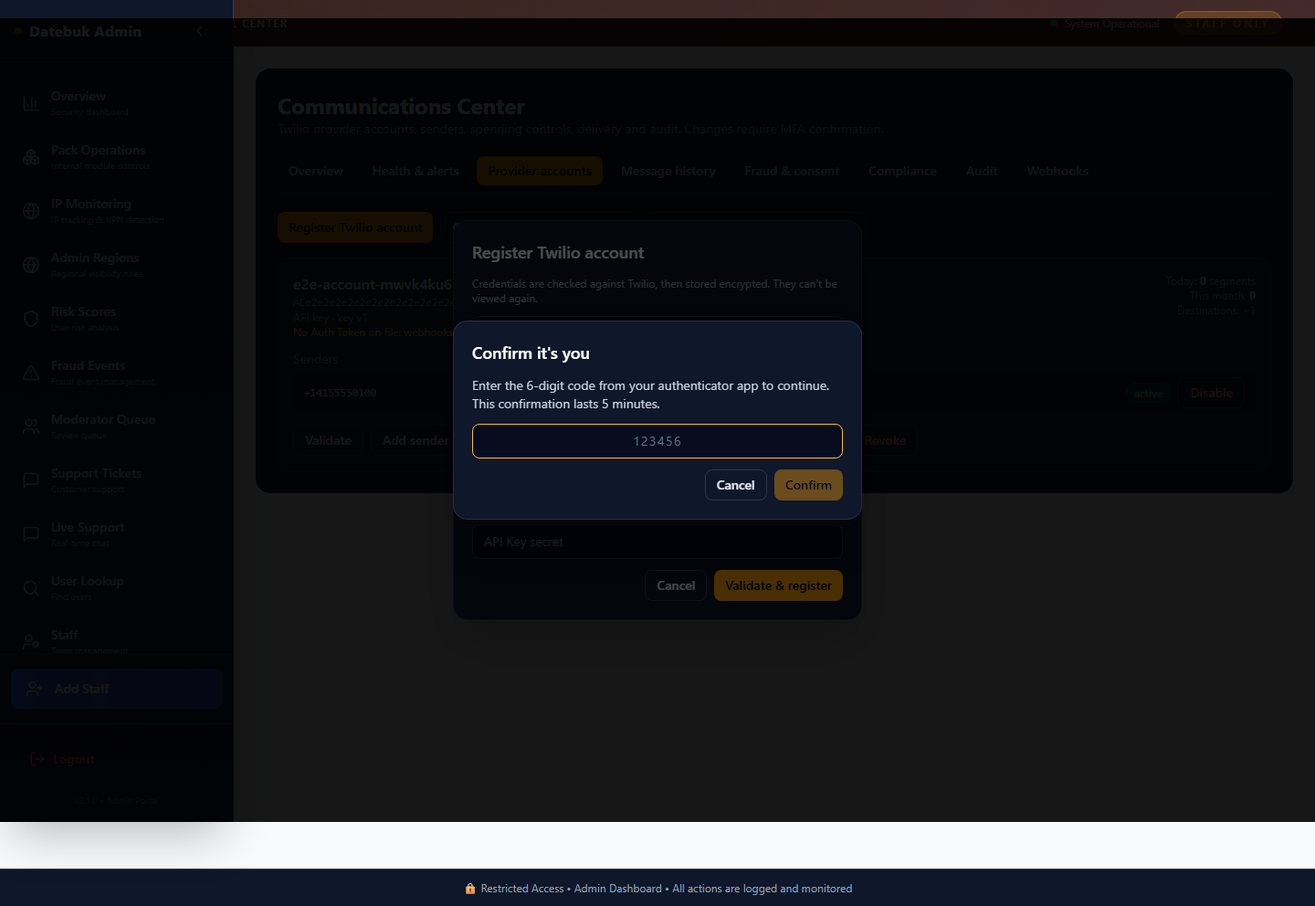
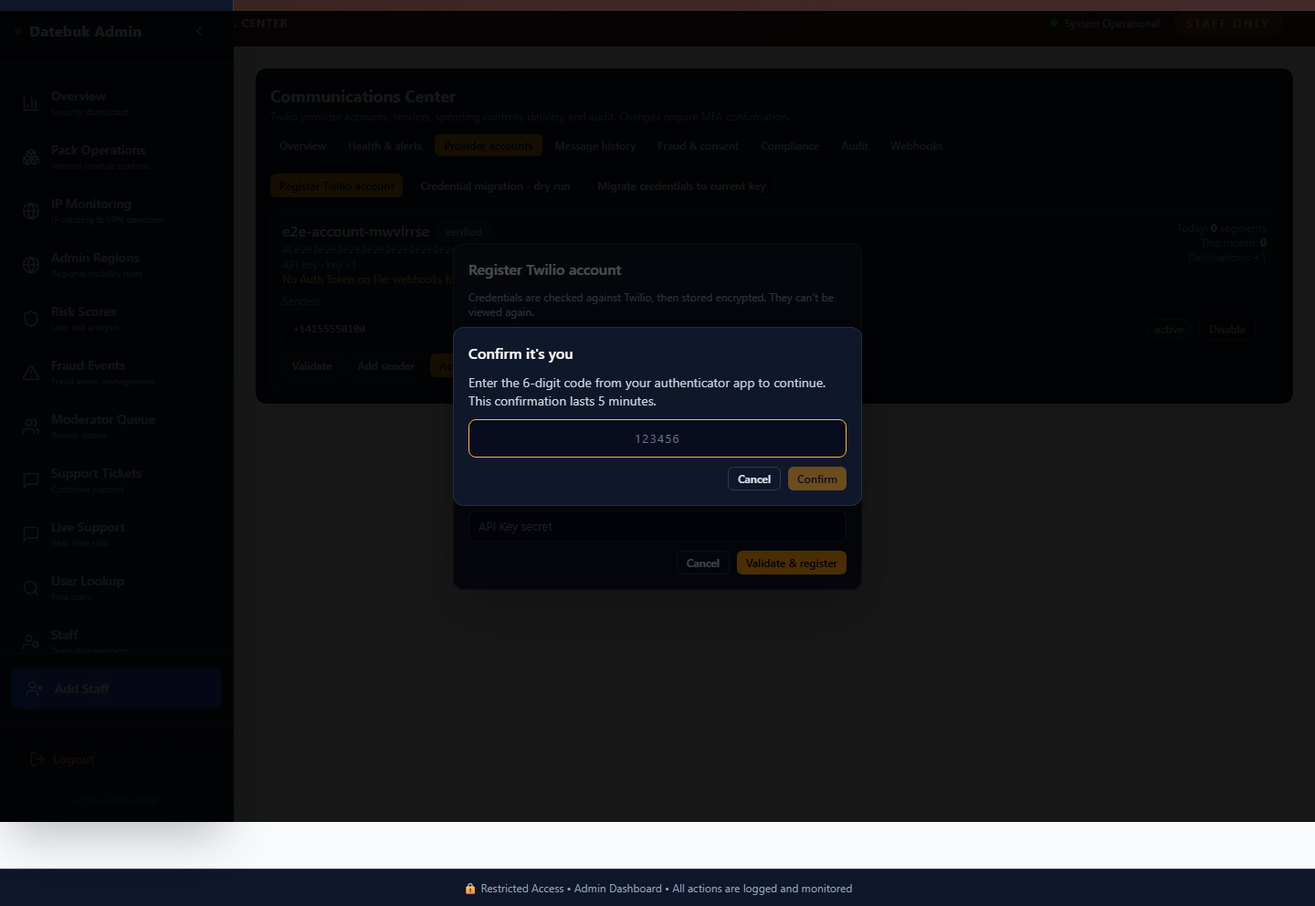
Compact Communications dashboards and usage panel; skip unreadable credentials in reconciliation
Denser spacing/typography on the admin Communications Center, staff operations and the subscription usage panel (the Health tab now fits one screen). Browser suite still 31/31. Reconciliation now skips an account whose credentials cannot be decrypted instead of failing the whole run.

diff --git a/apps/web/src/components/communications/CommunicationsConsole.tsx b/apps/web/src/components/communications/CommunicationsConsole.tsx
@@ -89,9 +89,9 @@ const Badge = ({ value }: { value: string }) => (
   <span className={`inline-block rounded-full border px-2 py-0.5 text-xs font-medium ${STATUS_STYLE[value] ?? STATUS_STYLE.pending}`}>{value}</span>
 );
 
-const card = "rounded-xl border border-white/10 bg-white/5 p-4";
-const input = "w-full rounded-lg border border-white/15 bg-slate-950/60 px-3 py-2 text-sm text-white placeholder:text-slate-500 focus:border-amber-400 focus:outline-none";
-const btn = "rounded-lg px-3 py-1.5 text-sm font-medium transition disabled:opacity-40";
+const card = "rounded-lg border border-white/10 bg-white/5 p-3";
+const input = "w-full rounded-lg border border-white/15 bg-slate-950/60 px-2.5 py-1.5 text-[13px] text-white placeholder:text-slate-500 focus:border-amber-400 focus:outline-none";
+const btn = "rounded-md px-2.5 py-1 text-xs font-medium transition disabled:opacity-40";
 const btnPrimary = `${btn} bg-amber-500 text-slate-950 hover:bg-amber-400`;
 const btnGhost = `${btn} border border-white/15 text-slate-200 hover:bg-white/10`;
 const btnDanger = `${btn} border border-red-500/50 text-red-300 hover:bg-red-500/10`;
@@ -296,17 +296,17 @@ export function CommunicationsConsole({ mode }: { mode: Mode }) {
 
   return (
     // Own dark surface: the console is styled for dark and is mounted inside layouts with light content areas.
-    <div className="space-y-5 rounded-2xl bg-slate-900 p-4 text-slate-100 md:p-6">
+    <div className="space-y-3 rounded-xl bg-slate-900 p-3 text-slate-100 md:p-4">
       <div>
-        <h1 className="text-2xl font-bold">{admin ? "Communications Center" : "Communications Operations"}</h1>
-        <p className="text-sm text-slate-400">
+        <h1 className="text-lg font-bold">{admin ? "Communications Center" : "Communications Operations"}</h1>
+        <p className="text-xs text-slate-400">
           {admin
             ? "Twilio provider accounts, senders, spending controls, delivery and audit. Changes require MFA confirmation."
             : "Read-only view of SMS delivery, history and audit. Provider administration is superadmin-only."}
         </p>
       </div>
 
-      <div className="flex flex-wrap gap-2 border-b border-white/10 pb-2">
+      <div className="flex flex-wrap gap-1 border-b border-white/10 pb-1.5">
         {tabs.map((t) => (
           <button key={t.id} onClick={() => setTab(t.id)} className={`${btn} ${tab === t.id ? "bg-amber-500 text-slate-950" : "text-slate-300 hover:bg-white/10"}`}>
             {t.label}
@@ -319,7 +319,7 @@ export function CommunicationsConsole({ mode }: { mode: Mode }) {
 
       {/* ---------- Overview ---------- */}
       {tab === "overview" && (
-        <div className="space-y-4">
+        <div className="space-y-3">
           <div className="flex items-center gap-2 text-sm">
             <span className="text-slate-400">Period</span>
             {[1, 7, 30].map((d) => (
@@ -332,15 +332,15 @@ export function CommunicationsConsole({ mode }: { mode: Mode }) {
             <p className="text-slate-400">Loading…</p>
           ) : (
             <>
-              <div className="grid grid-cols-2 gap-3 md:grid-cols-4">
+              <div className="grid grid-cols-2 gap-2 md:grid-cols-4 lg:grid-cols-8">
                 <Stat label="Messages" value={analytics.total} />
                 <Stat label="Segments billed" value={analytics.segments} />
                 <Stat label="Delivery rate" value={analytics.deliveryRate == null ? "-" : `${analytics.deliveryRate}%`} />
                 <Stat label="Needs reconciliation" value={analytics.needsReconciliation} warn={analytics.needsReconciliation > 0} hint="Outcome unknown. Never auto-retried; check with Twilio before resending." />
               </div>
-              <div className="grid gap-3 md:grid-cols-2">
+              <div className="grid gap-2 md:grid-cols-2">
                 <div className={card}>
-                  <h3 className="mb-2 font-semibold">By delivery state</h3>
+                  <h3 className="mb-1.5 text-sm font-semibold">By delivery state</h3>
                   {Object.keys(analytics.byState).length === 0 ? <p className="text-sm text-slate-400">No messages in this period.</p> : (
                     <ul className="space-y-1 text-sm">
                       {Object.entries(analytics.byState).map(([s, n]) => (
@@ -350,9 +350,9 @@ export function CommunicationsConsole({ mode }: { mode: Mode }) {
                   )}
                 </div>
                 <div className={card}>
-                  <h3 className="mb-2 font-semibold">Per day</h3>
+                  <h3 className="mb-1.5 text-sm font-semibold">Per day</h3>
                   {analytics.perDay.length === 0 ? <p className="text-sm text-slate-400">No data.</p> : (
-                    <table className="w-full text-sm"><thead className="text-left text-slate-400"><tr><th>Day</th><th>Messages</th><th>Segments</th></tr></thead>
+                    <table className="w-full text-xs"><thead className="text-left text-slate-400"><tr><th>Day</th><th>Messages</th><th>Segments</th></tr></thead>
                       <tbody>{analytics.perDay.map((d) => <tr key={d.day}><td>{d.day}</td><td>{d.messages}</td><td>{d.segments}</td></tr>)}</tbody></table>
                   )}
                 </div>
@@ -364,7 +364,7 @@ export function CommunicationsConsole({ mode }: { mode: Mode }) {
 
       {/* ---------- Accounts ---------- */}
       {tab === "accounts" && (
-        <div className="space-y-4">
+        <div className="space-y-3">
           {admin && (
             <div className="flex flex-wrap gap-2">
               <button className={btnPrimary} onClick={() => setShowRegister(true)}>Register Twilio account</button>
@@ -401,7 +401,7 @@ export function CommunicationsConsole({ mode }: { mode: Mode }) {
                 </div>
               </div>
 
-              <div className="mt-3 space-y-1 text-sm">
+              <div className="mt-2 space-y-1 text-xs">
                 <p className="text-slate-400">Senders</p>
                 {a.senders.length === 0 ? <p className="text-slate-500">None. Add a sender before activating.</p> : a.senders.map((s) => (
                   <div key={s.id} className="flex items-center justify-between rounded-lg bg-black/20 px-3 py-1.5">
@@ -414,7 +414,7 @@ export function CommunicationsConsole({ mode }: { mode: Mode }) {
               </div>
 
               {admin && a.status !== "revoked" && (
-                <div className="mt-3 flex flex-wrap gap-2">
+                <div className="mt-2 flex flex-wrap gap-1.5">
                   <button className={btnGhost} onClick={() => act("Validated", () => rawCall("POST", `/admin/sms/accounts/${a.id}/validate`), loadAccounts)}>Validate</button>
                   <button className={btnGhost} onClick={() => setSenderFor(a)}>Add sender</button>
                   {a.status !== "active" && <button className={btnPrimary} onClick={() => act("Activated", () => manage("POST", `/admin/sms/accounts/${a.id}/activate`), loadAccounts)}>Activate</button>}
@@ -440,12 +440,12 @@ export function CommunicationsConsole({ mode }: { mode: Mode }) {
             <button className={btnGhost} onClick={() => loadMessages(false)}>Refresh</button>
           </div>
           <div className={card + " overflow-x-auto p-0"}>
-            <table className="w-full text-sm">
-              <thead className="text-left text-slate-400"><tr><th className="p-3">Time</th><th>Purpose</th><th>To</th><th>State</th><th>Segments</th>{admin && <th>Resolve</th>}</tr></thead>
+            <table className="w-full text-xs">
+              <thead className="text-left text-slate-400"><tr><th className="p-2">Time</th><th>Purpose</th><th>To</th><th>State</th><th>Segments</th>{admin && <th>Resolve</th>}</tr></thead>
               <tbody>
                 {messages.length === 0 ? <tr><td colSpan={admin ? 6 : 5} className="p-4 text-slate-400">No messages.</td></tr> : messages.map((m) => (
                   <tr key={m.id} className="border-t border-white/5">
-                    <td className="p-3 whitespace-nowrap">{new Date(m.createdAt).toLocaleString()}</td><td>{m.purpose}</td><td className="font-mono">•••{m.recipientLast4}</td><td><Badge value={m.state} /></td><td>{m.segments}</td>
+                    <td className="p-2 whitespace-nowrap">{new Date(m.createdAt).toLocaleString()}</td><td>{m.purpose}</td><td className="font-mono">•••{m.recipientLast4}</td><td><Badge value={m.state} /></td><td>{m.segments}</td>
                     {admin && (
                       <td className="whitespace-nowrap pr-3">
                         {m.state === "uncertain" ? (
@@ -469,12 +469,12 @@ export function CommunicationsConsole({ mode }: { mode: Mode }) {
       {/* ---------- Audit ---------- */}
       {tab === "audit" && (
         <div className={card + " overflow-x-auto p-0"}>
-          <table className="w-full text-sm">
-            <thead className="text-left text-slate-400"><tr><th className="p-3">Time</th><th>Action</th><th>Actor</th><th>Details</th></tr></thead>
+          <table className="w-full text-xs">
+            <thead className="text-left text-slate-400"><tr><th className="p-2">Time</th><th>Action</th><th>Actor</th><th>Details</th></tr></thead>
             <tbody>
               {audit.length === 0 ? <tr><td colSpan={4} className="p-4 text-slate-400">No audit records.</td></tr> : audit.map((a) => (
                 <tr key={a.id} className="border-t border-white/5 align-top">
-                  <td className="p-3 whitespace-nowrap">{new Date(a.createdAt).toLocaleString()}</td>
+                  <td className="p-2 whitespace-nowrap">{new Date(a.createdAt).toLocaleString()}</td>
                   <td className="font-mono text-xs">{a.action}</td>
                   <td className="font-mono text-xs">{a.actorUserId ? a.actorUserId.slice(0, 8) : "system"}</td>
                   <td className="max-w-[420px] truncate font-mono text-xs text-slate-400">{a.metadata ? JSON.stringify(a.metadata) : ""}</td>
@@ -508,7 +508,7 @@ export function CommunicationsConsole({ mode }: { mode: Mode }) {
 
       {/* ---------- Health & alerts ---------- */}
       {tab === "health" && (
-        <div className="space-y-4">
+        <div className="space-y-3">
           {!health ? <p className="text-slate-400">Loading…</p> : (
             <>
               {health.control.stopped && (
@@ -516,7 +516,7 @@ export function CommunicationsConsole({ mode }: { mode: Mode }) {
                   <b>Emergency stop is ON</b>{health.control.reason ? ` - ${health.control.reason}` : ""}. Nothing new is being sent; queued messages are waiting.
                 </div>
               )}
-              <div className="grid grid-cols-2 gap-3 md:grid-cols-4">
+              <div className="grid grid-cols-2 gap-2 md:grid-cols-4 lg:grid-cols-8">
                 <Stat label="Queued (due now)" value={`${health.queue.queued} (${health.queue.dueNow})`} warn={health.queue.dueNow > 0 && health.queue.oldestDueAgeSeconds > 300} hint="Oldest due message age shown below" />
                 <Stat label="Oldest due" value={`${health.queue.oldestDueAgeSeconds}s`} />
                 <Stat label="Uncertain" value={health.reconciliation.uncertain} warn={health.reconciliation.uncertain > 0} />
@@ -527,7 +527,7 @@ export function CommunicationsConsole({ mode }: { mode: Mode }) {
                 <Stat label="Open fraud events" value={health.security.openRiskEvents} warn={health.security.openRiskEvents > 0} />
               </div>
               <div className={card}>
-                <h3 className="mb-2 font-semibold">Spending today</h3>
+                <h3 className="mb-1.5 text-sm font-semibold">Spending today</h3>
                 {health.budget.length === 0 ? <p className="text-sm text-slate-400">No provider accounts.</p> : health.budget.map((b) => (
                   <div key={b.accountId} className="mb-2 text-sm">
                     <div className="flex justify-between"><span>{b.name}</span><span>{b.segmentsToday}{b.dailyLimit ? ` / ${b.dailyLimit}` : " (no cap)"} segments</span></div>
@@ -546,18 +546,18 @@ export function CommunicationsConsole({ mode }: { mode: Mode }) {
                 </div>
               )}
               <div className={card + " overflow-x-auto p-0"}>
-                <h3 className="p-3 font-semibold">Alerts</h3>
-                <table className="w-full text-sm"><thead className="text-left text-slate-400"><tr><th className="p-3">Time</th><th>Rule</th><th>Severity</th><th>Summary</th><th>Status</th></tr></thead>
+                <h3 className="px-3 pt-2 text-sm font-semibold">Alerts</h3>
+                <table className="w-full text-xs"><thead className="text-left text-slate-400"><tr><th className="p-2">Time</th><th>Rule</th><th>Severity</th><th>Summary</th><th>Status</th></tr></thead>
                   <tbody>{alertRows.length === 0 ? <tr><td colSpan={5} className="p-4 text-slate-400">No communications alerts.</td></tr> : alertRows.map((a) => (
-                    <tr key={a.id} className="border-t border-white/5"><td className="p-3 whitespace-nowrap">{new Date(a.createdAt).toLocaleString()}</td><td className="font-mono text-xs">{a.ruleId}</td><td><Badge value={a.severity === "critical" || a.severity === "high" ? "failed" : a.severity === "medium" ? "uncertain" : "queued"} /> {a.severity}</td><td>{a.summary}</td><td><Badge value={a.status === "open" ? "uncertain" : "delivered"} /> {a.status}</td></tr>
+                    <tr key={a.id} className="border-t border-white/5"><td className="p-2 whitespace-nowrap">{new Date(a.createdAt).toLocaleString()}</td><td className="font-mono text-xs">{a.ruleId}</td><td><Badge value={a.severity === "critical" || a.severity === "high" ? "failed" : a.severity === "medium" ? "uncertain" : "queued"} /> {a.severity}</td><td>{a.summary}</td><td><Badge value={a.status === "open" ? "uncertain" : "delivered"} /> {a.status}</td></tr>
                   ))}</tbody></table>
                 <p className="p-3 text-xs text-slate-500">Acknowledge and resolve alerts in the Security Alerts console; the same incident record is used.</p>
               </div>
               <div className={card + " overflow-x-auto p-0"}>
-                <h3 className="p-3 font-semibold">Messages needing review</h3>
-                <table className="w-full text-sm"><thead className="text-left text-slate-400"><tr><th className="p-3">Time</th><th>State</th><th>Detail</th>{admin && <th>Resolve</th>}</tr></thead>
+                <h3 className="px-3 pt-2 text-sm font-semibold">Messages needing review</h3>
+                <table className="w-full text-xs"><thead className="text-left text-slate-400"><tr><th className="p-2">Time</th><th>State</th><th>Detail</th>{admin && <th>Resolve</th>}</tr></thead>
                   <tbody>{reviewMsgs.length === 0 ? <tr><td colSpan={admin ? 4 : 3} className="p-4 text-slate-400">Nothing to review.</td></tr> : reviewMsgs.map((m) => (
-                    <tr key={m.id} className="border-t border-white/5"><td className="p-3 whitespace-nowrap">{new Date(m.createdAt).toLocaleString()}</td><td><Badge value={m.state} /></td><td className="text-xs text-slate-400">{(m as any).lastError ?? ""}</td>
+                    <tr key={m.id} className="border-t border-white/5"><td className="p-2 whitespace-nowrap">{new Date(m.createdAt).toLocaleString()}</td><td><Badge value={m.state} /></td><td className="text-xs text-slate-400">{(m as any).lastError ?? ""}</td>
                       {admin && <td className="whitespace-nowrap pr-3">{m.state === "uncertain" ? <span className="flex gap-1"><button className={btnGhost} onClick={() => act("Marked sent", () => manage("POST", `/admin/sms/messages/${m.id}/reconcile`, { outcome: "sent" }), loadHealth)}>Was sent</button><button className={btnGhost} onClick={() => act("Marked not sent", () => manage("POST", `/admin/sms/messages/${m.id}/reconcile`, { outcome: "not_sent" }), loadHealth)}>Not sent</button></span> : null}</td>}
                     </tr>
                   ))}</tbody></table>
@@ -569,13 +569,13 @@ export function CommunicationsConsole({ mode }: { mode: Mode }) {
 
       {/* ---------- Fraud & consent ---------- */}
       {tab === "fraud" && (
-        <div className="space-y-4">
+        <div className="space-y-3">
           <div className={card + " overflow-x-auto p-0"}>
-            <h3 className="p-3 font-semibold">Fraud events</h3>
+            <h3 className="px-3 pt-2 text-sm font-semibold">Fraud events</h3>
             <p className="px-3 pb-2 text-xs text-slate-500">Throttles and temporary blocks only - no account is ever suspended automatically. IPs and numbers are shown as short hash prefixes.</p>
-            <table className="w-full text-sm"><thead className="text-left text-slate-400"><tr><th className="p-3">Time</th><th>Kind</th><th>Score</th><th>Action</th><th>Status</th><th>Review</th></tr></thead>
+            <table className="w-full text-xs"><thead className="text-left text-slate-400"><tr><th className="p-2">Time</th><th>Kind</th><th>Score</th><th>Action</th><th>Status</th><th>Review</th></tr></thead>
               <tbody>{riskRows.length === 0 ? <tr><td colSpan={6} className="p-4 text-slate-400">No fraud events.</td></tr> : riskRows.map((r) => (
-                <tr key={r.id} className="border-t border-white/5"><td className="p-3 whitespace-nowrap">{new Date(r.createdAt).toLocaleString()}</td><td className="font-mono text-xs">{r.kind}</td><td>{r.score}</td><td><Badge value={r.action === "blocked" ? "failed" : r.action === "throttled" ? "uncertain" : "queued"} /> {r.action}</td><td>{r.status}</td>
+                <tr key={r.id} className="border-t border-white/5"><td className="p-2 whitespace-nowrap">{new Date(r.createdAt).toLocaleString()}</td><td className="font-mono text-xs">{r.kind}</td><td>{r.score}</td><td><Badge value={r.action === "blocked" ? "failed" : r.action === "throttled" ? "uncertain" : "queued"} /> {r.action}</td><td>{r.status}</td>
                   <td className="whitespace-nowrap pr-3">{r.status === "open" ? <span className="flex gap-1"><button className={btnGhost} onClick={() => act("Event confirmed", () => rawCall("POST", `/admin/sms/risk-events/${r.id}/review`, { decision: "confirmed" }), loadFraud)}>Confirm</button><button className={btnGhost} onClick={() => act("Event dismissed", () => rawCall("POST", `/admin/sms/risk-events/${r.id}/review`, { decision: "dismissed" }), loadFraud)}>Dismiss</button></span> : null}</td></tr>
               ))}</tbody></table>
           </div>
@@ -600,7 +600,7 @@ export function CommunicationsConsole({ mode }: { mode: Mode }) {
 
       {/* ---------- Compliance ---------- */}
       {tab === "compliance" && (
-        <div className="space-y-4">
+        <div className="space-y-3">
           <div className={card + " text-sm text-slate-300"}>
             <p>US messaging needs approved carrier registration: <b>A2P 10DLC</b> (brand + campaign) for local numbers and Messaging Services, or <b>toll-free verification</b> for toll-free numbers. Record what Twilio/the carriers report; approval requires an evidence reference. A sender without every required approval cannot send (enforced in production).</p>
           </div>
@@ -615,9 +615,9 @@ export function CommunicationsConsole({ mode }: { mode: Mode }) {
             </div>
           )}
           <div className={card + " overflow-x-auto p-0"}>
-            <table className="w-full text-sm"><thead className="text-left text-slate-400"><tr><th className="p-3">Type</th><th>Account</th><th>Status</th><th>Identifiers</th><th>Evidence</th><th>Expires</th>{admin && <th>Update</th>}</tr></thead>
+            <table className="w-full text-xs"><thead className="text-left text-slate-400"><tr><th className="p-2">Type</th><th>Account</th><th>Status</th><th>Identifiers</th><th>Evidence</th><th>Expires</th>{admin && <th>Update</th>}</tr></thead>
               <tbody>{regs.length === 0 ? <tr><td colSpan={admin ? 7 : 6} className="p-4 text-slate-400">No registrations recorded.</td></tr> : regs.map((r) => (
-                <tr key={r.id} className="border-t border-white/5 align-top"><td className="p-3 font-mono text-xs">{r.type}</td><td>{(accounts ?? []).find((a) => a.id === r.accountId)?.name ?? r.accountId.slice(0, 8)}{r.senderId ? " (one sender)" : ""}</td><td><Badge value={r.status === "approved" ? "active" : r.status === "pending" ? "pending" : r.status === "rejected" || r.status === "suspended" ? "failed" : "revoked"} /> {r.status}</td><td className="text-xs text-slate-400">{[r.brandId && `brand ${r.brandId}`, r.campaignId && `campaign ${r.campaignId}`].filter(Boolean).join(" · ")}</td><td className="max-w-[220px] truncate text-xs text-slate-400" title={r.evidenceNote ?? ""}>{r.evidenceNote ?? ""}</td><td className="text-xs">{r.expiresAt ? new Date(r.expiresAt).toLocaleDateString() : ""}</td>
+                <tr key={r.id} className="border-t border-white/5 align-top"><td className="p-2 font-mono text-xs">{r.type}</td><td>{(accounts ?? []).find((a) => a.id === r.accountId)?.name ?? r.accountId.slice(0, 8)}{r.senderId ? " (one sender)" : ""}</td><td><Badge value={r.status === "approved" ? "active" : r.status === "pending" ? "pending" : r.status === "rejected" || r.status === "suspended" ? "failed" : "revoked"} /> {r.status}</td><td className="text-xs text-slate-400">{[r.brandId && `brand ${r.brandId}`, r.campaignId && `campaign ${r.campaignId}`].filter(Boolean).join(" · ")}</td><td className="max-w-[220px] truncate text-xs text-slate-400" title={r.evidenceNote ?? ""}>{r.evidenceNote ?? ""}</td><td className="text-xs">{r.expiresAt ? new Date(r.expiresAt).toLocaleDateString() : ""}</td>
                   {admin && <td className="whitespace-nowrap pr-3"><span className="flex flex-wrap gap-1">
                     {r.status === "pending" && <><button className={btnPrimary} onClick={() => { setEvidenceText(""); setEvidence({ reg: r, to: "approved" }); }}>Approve…</button><button className={btnDanger} onClick={() => act("Marked rejected", () => manage("POST", `/admin/sms/compliance/${r.id}/status`, { status: "rejected", evidenceNote: "rejected by provider" }), loadCompliance)}>Rejected</button></>}
                     {r.status === "approved" && <><button className={btnGhost} onClick={() => act("Marked suspended", () => manage("POST", `/admin/sms/compliance/${r.id}/status`, { status: "suspended" }), loadCompliance)}>Suspended</button></>}
@@ -720,8 +720,8 @@ const clean = <T extends Record<string, string>>(o: T) => Object.fromEntries(Obj
 function Stat({ label, value, warn, hint }: { label: string; value: number | string; warn?: boolean; hint?: string }) {
   return (
     <div className={`${card} ${warn ? "border-amber-500/50" : ""}`} title={hint}>
-      <p className="text-xs uppercase tracking-wide text-slate-400">{label}</p>
-      <p className={`text-2xl font-bold ${warn ? "text-amber-300" : ""}`}>{value}</p>
+      <p className="text-[10px] uppercase tracking-wide text-slate-400">{label}</p>
+      <p className={`text-xl font-bold leading-tight ${warn ? "text-amber-300" : ""}`}>{value}</p>
     </div>
   );
 }
@@ -750,8 +750,8 @@ function Copy({ label, value }: { label: string; value: string | null }) {
 function Modal({ title, children, onClose }: { title: string; children: React.ReactNode; onClose: () => void }) {
   return (
     <div className="fixed inset-0 z-[100] flex items-center justify-center bg-black/70 p-4" role="dialog" aria-modal="true" aria-label={title} onClick={onClose}>
-      <div className="w-full max-w-md space-y-3 rounded-2xl border border-white/10 bg-slate-900 p-5 shadow-2xl" onClick={(e) => e.stopPropagation()}>
-        <h2 className="text-lg font-semibold text-white">{title}</h2>
+      <div className="w-full max-w-md space-y-2.5 rounded-xl border border-white/10 bg-slate-900 p-4 shadow-2xl" onClick={(e) => e.stopPropagation()}>
+        <h2 className="text-base font-semibold text-white">{title}</h2>
         {children}
       </div>
     </div>

diff --git a/apps/web/src/components/subscription/SubscriptionUsagePanel.tsx b/apps/web/src/components/subscription/SubscriptionUsagePanel.tsx
@@ -72,27 +72,27 @@ export function SubscriptionUsagePanel() {
   const price = usage.priceCents === 0 ? "Free" : `$${(usage.priceCents / 100).toFixed(2)}/month`;
 
   return (
-    <section className="mb-8 rounded-2xl border border-white/15 bg-white/5 p-5" aria-label="Plan usage">
+    <section className="mb-5 rounded-xl border border-white/15 bg-white/5 p-3.5" aria-label="Plan usage">
       <div className="flex flex-wrap items-baseline justify-between gap-2">
-        <h2 className="text-xl font-semibold">
+        <h2 className="text-base font-semibold">
           Your plan: <span className="text-pink-400 capitalize">{usage.plan}</span> <span className="text-sm font-normal text-white/60">· {price}</span>
         </h2>
         <p className="text-xs text-white/50">Daily limits reset {new Date(usage.resetsAt).toLocaleString()}</p>
       </div>
 
       {quotas.length > 0 && (
-        <div className="mt-4 grid gap-3 sm:grid-cols-2 lg:grid-cols-3">
+        <div className="mt-2.5 grid gap-2 sm:grid-cols-2 lg:grid-cols-4">
           {quotas.map((f) => {
             const pct = f.limit ? Math.min(100, Math.round(((f.used ?? 0) / f.limit) * 100)) : 0;
             return (
-              <div key={f.feature} className="rounded-xl bg-black/20 p-3">
+              <div key={f.feature} className="rounded-lg bg-black/20 p-2">
                 <div className="flex justify-between text-sm">
                   <span className="capitalize">{pretty(f.feature)}</span>
                   <span className="text-white/70">
                     {f.used}/{f.limit} today
                   </span>
                 </div>
-                <div className="mt-2 h-1.5 overflow-hidden rounded-full bg-white/10" role="progressbar" aria-valuenow={pct} aria-valuemin={0} aria-valuemax={100}>
+                <div className="mt-1.5 h-1 overflow-hidden rounded-full bg-white/10" role="progressbar" aria-valuenow={pct} aria-valuemin={0} aria-valuemax={100}>
                   <div className={`h-full ${pct >= 100 ? "bg-red-400" : pct >= 80 ? "bg-amber-400" : "bg-emerald-400"}`} style={{ width: `${pct}%` }} />
                 </div>
                 {f.remaining === 0 && <p className="mt-1 text-xs text-red-300">Limit reached - resets tomorrow.</p>}
@@ -104,7 +104,7 @@ export function SubscriptionUsagePanel() {
 
       <details className="mt-4">
         <summary className="cursor-pointer text-sm text-white/70">What&apos;s included in your plan</summary>
-        <div className="mt-3 grid gap-4 sm:grid-cols-2 lg:grid-cols-3">
+        <div className="mt-2 grid gap-3 sm:grid-cols-2 lg:grid-cols-4">
           {groups.map(([key, items]) => (
             <div key={key}>
               <h3 className="mb-1 text-sm font-semibold text-white/90">{GROUP_LABEL[key] ?? key}</h3>

diff --git a/apps/api/src/sms/sms-reconcile.service.ts b/apps/api/src/sms/sms-reconcile.service.ts
@@ -120,7 +120,13 @@ export class SmsReconcileService {
   private async loadAccount(id: string) {
     const a = await this.prisma.twilioAccount.findUnique({ where: { id } });
     if (!a) return null;
-    const creds = this.accounts.restCredentials(a);
-    return creds ? { accountSid: a.accountSid, creds } : null;
+    try {
+      const creds = this.accounts.restCredentials(a);
+      return creds ? { accountSid: a.accountSid, creds } : null;
+    } catch (e) {
+      // An unreadable credential (wrong key, corrupted row) must not break the run for every other account.
+      this.log.error(`reconciliation skipped account ${a.id}: credentials unreadable (${(e as Error).message})`);
+      return null;
+    }
   }
 }
